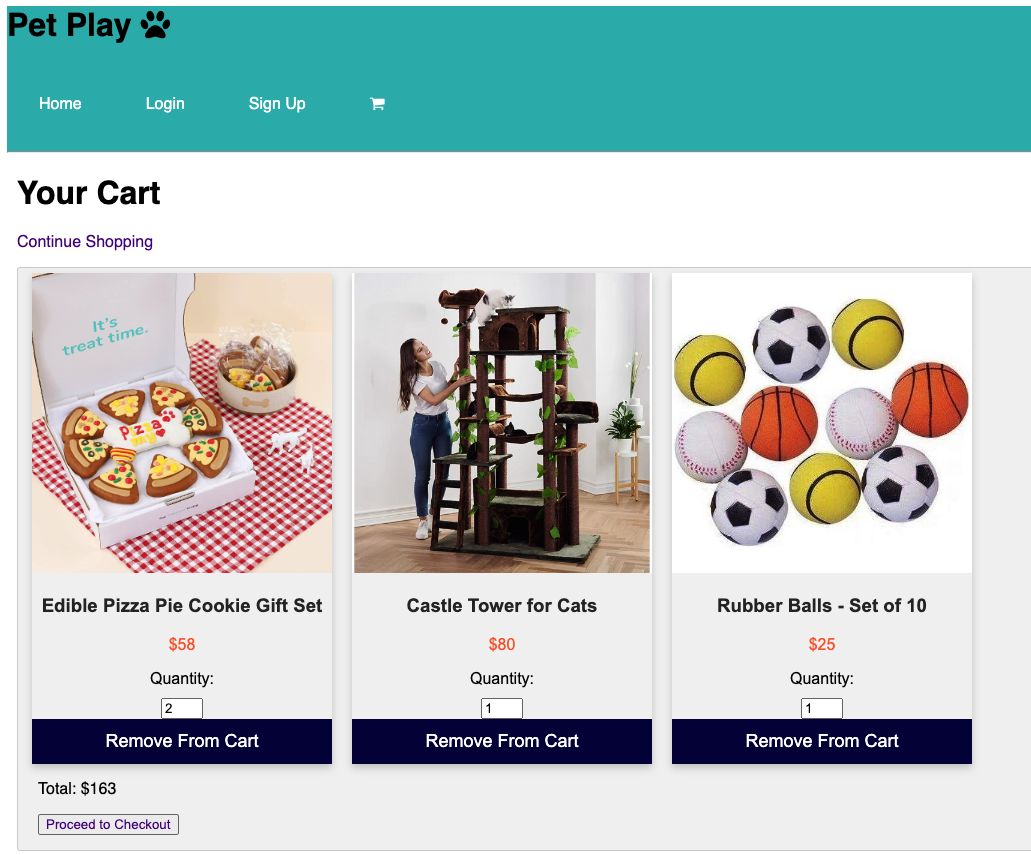
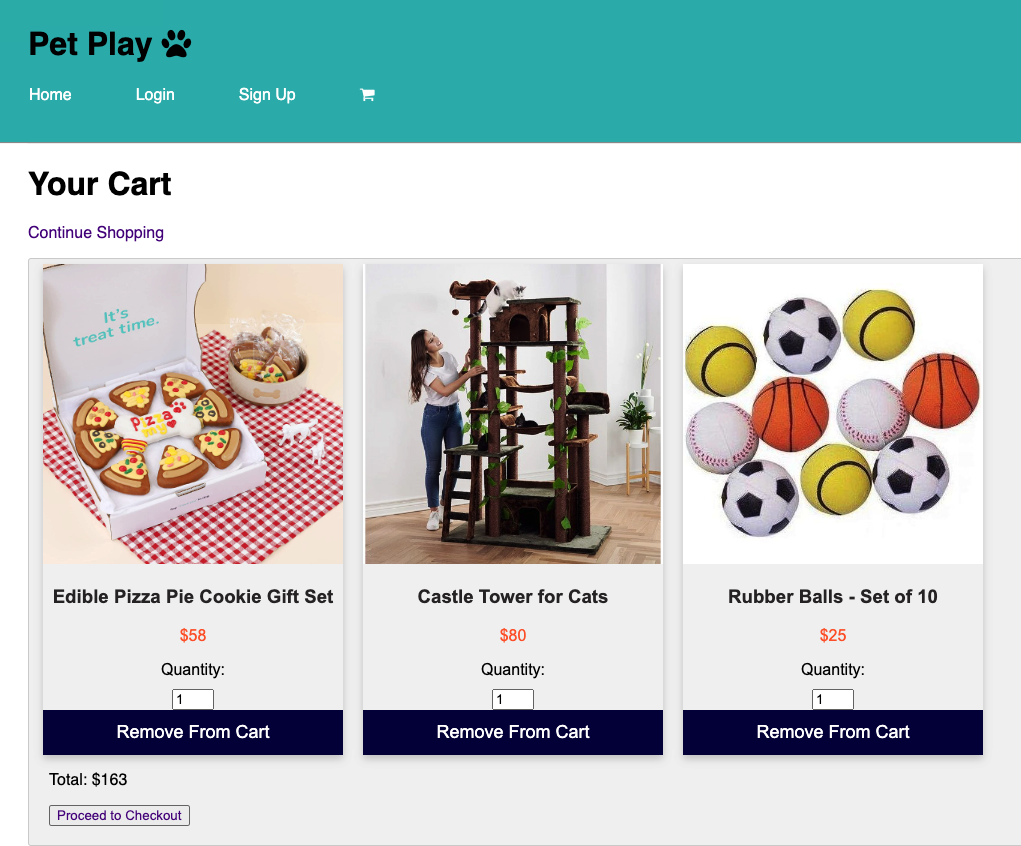
css cleanup, box shadow

diff --git a/src/Projects.js b/src/Projects.js
@@ -5,21 +5,19 @@ import projects from './assets/projects';
 function Projects() {
     return (
     <section id="projects">
-        <h2 className="project-header font-bold font-mono">Some projects I've worked on</h2>
+        <h2 className="project-header font-bold font-mono">PROJECTS</h2>
         <div>
             {projects.map(project => {
                 return (
                 <div className="project-container">
                     <div className="img-col">
-                        <div className="outer">
-                            <div className="inner">
-                                <img alt="project" src={require(`./assets/${project.image}`)}/>
-                            </div>
+                        <div>
+                            <img alt="project" src={require(`./assets/${project.image}`)}/>
                         </div>
                     </div>
                     <div className="text-col">
                         <div>
-                            <p className="font-bold">{project.title}</p><br></br>
+                            <p className=" font-bold">{project.title}</p><br></br>
                             <p>{project.description}</p><br></br>
                             <p>Contributions: {project.contribution}</p><br></br>
                             <p>{project.stack}</p>

diff --git a/src/App.css b/src/App.css
@@ -3,6 +3,7 @@
   max-width: 100%;
   padding: 220px;
   border-bottom: 0.1rem solid black;
+  color: white;   
   
 }
 
@@ -12,7 +13,8 @@
   padding-top: 220px;
   font-size: 36px;
   text-align: center;
-  background-color: #CDE5D7;
+  background-color: #373E40;
+  color: white;
 }
 
 .project-container {
@@ -20,7 +22,7 @@
   align-items: center;
   justify-content: center;
   font-size: 13pt;
-  background-color: #CDE5D7;
+  background-color: #373E40;
   max-width: 100%;
   padding-top: 100px;
   padding-bottom: 150px;
@@ -39,27 +41,9 @@
   border-radius: 25px;
 }
 
-/* li {
-  padding: 20px;
-  font-size: x-large;
-} */
-
 img {
-  max-width: 100%;
-  height: auto;
-  border-width: 0.1rem;
-  border-color: #283044;
-}
-
-/* .outer {
-  width: 100%;
-  height: 650px;
-  margin: 50px auto;
-  background-color: #ACC3A6;
-} */
-
-.inner {
-  width: 120%;
+  max-width: 120%;
   height: auto;
   margin: 50px 50px 0 50px;
+  box-shadow: 20px 20px #7C8D8D;
 }

diff --git a/src/About.js b/src/About.js
@@ -4,7 +4,7 @@ import './App.css';
 function About() {
     return(
         <section id="about">
-            <div className="container bg-lime mx-auto font-mono">
+            <div className="container bg-onyx text-white mx-auto font-mono">
                 <h2 className="text-4xl font-bold">Get to know me!</h2>
                     <p className="text-3xl py-8">A full stack developer with a background in healthcare and a newfound passion in the world of programming.</p>
             </div>

diff --git a/src/Contact.js b/src/Contact.js
@@ -3,7 +3,7 @@ import './App.css';
 
 function Contact() {
     return(
-        <section id="contact" className="container bg-lav font-mono">
+        <section id="contact" className="container bg-gradient-to-br from-space via-onyx to-sage font-mono">
         <h2 className="text-5xl font-bold">Let's chat!</h2>
         <div>
             <a>Email</a>

diff --git a/src/App.js b/src/App.js
@@ -6,7 +6,7 @@ import Contact from './Contact';
 
 function App() {
   return (
-  <div className="bg-blush">
+  <div className="bg-gradient-to-br from-space via-onyx to-sage">
     <Navbar />
     <Header />
     <About />

diff --git a/tailwind.config.js b/tailwind.config.js
@@ -13,6 +13,7 @@ module.exports = {
         "blush": "#FFEDE1",
         "eggshell":"#F6F0ED",
         "space":"#283044",
+        "onyx":"#373E40",
       }
     },
   },
